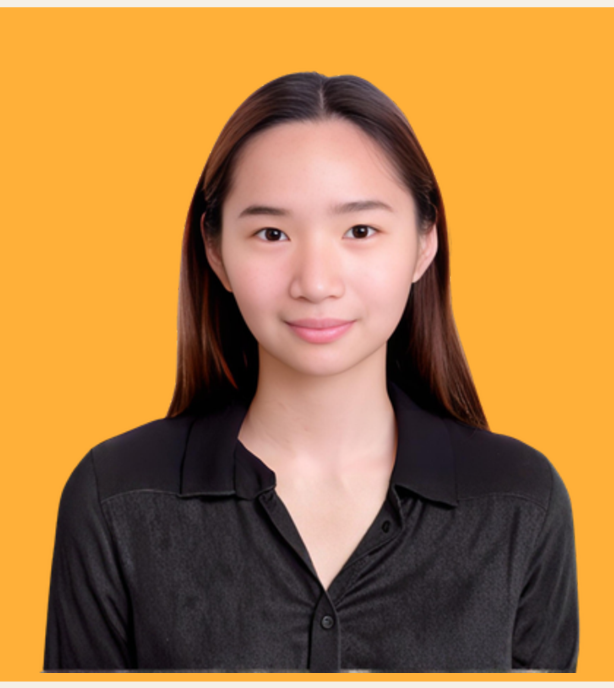
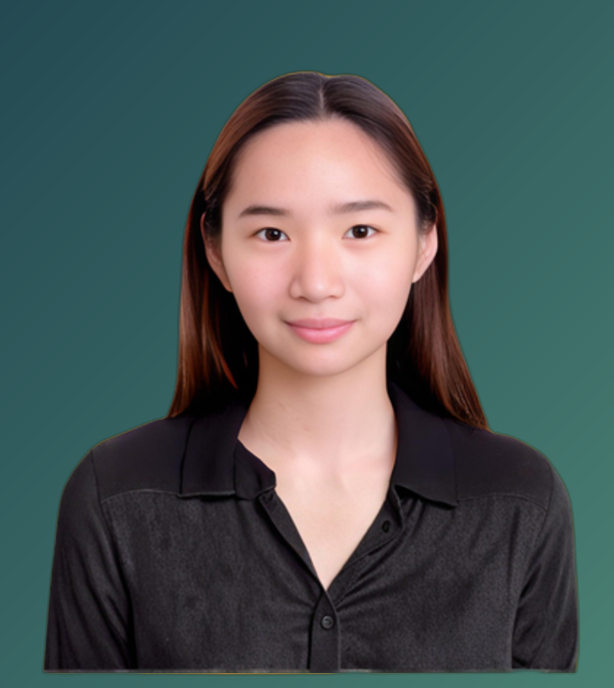
leadership: dark-teal backgrounds for all 5 leaders (cut out via rembg); replace Hannah photo with new headshot

diff --git a/index.html b/index.html
@@ -697,7 +697,7 @@
 
       <!-- Hannah Jara -->
       <div class="leader-card reveal">
-        <div class="leader-avatar"><img src="LEADERSHIP PICTURES/HANNAH JARA.png" alt="Hannah P. Jara"></div>
+        <div class="leader-avatar"><img src="LEADERSHIP PICTURES/HANNAH JARA.png?v=2" alt="Hannah P. Jara"></div>
         <div class="leader-name">Hannah P. Jara</div>
         <div class="leader-creds">MBA, MPH, PTRP</div>
         <div class="leader-role">President & CEO, Sapphire Clinics East, Inc.</div>
@@ -706,7 +706,7 @@
 
       <!-- Ariel Jan Carlo Gonzales -->
       <div class="leader-card reveal delay-1">
-        <div class="leader-avatar"><img src="LEADERSHIP PICTURES/ARIEL JAN CARLO GONZALES.png" alt="Ariel Jan Carlo Gonzales"></div>
+        <div class="leader-avatar"><img src="LEADERSHIP PICTURES/ARIEL JAN CARLO GONZALES.png?v=2" alt="Ariel Jan Carlo Gonzales"></div>
         <div class="leader-name">Ariel Jan Carlo Gonzales</div>
         <div class="leader-creds">MBA</div>
         <div class="leader-role">Treasurer, SCEI</div>
@@ -715,7 +715,7 @@
 
       <!-- Anna Kaye Hao Lim -->
       <div class="leader-card reveal delay-2">
-        <div class="leader-avatar"><img src="LEADERSHIP PICTURES/ANNA KAYE LIM.png" alt="Anna Kaye Hao Lim"></div>
+        <div class="leader-avatar"><img src="LEADERSHIP PICTURES/ANNA KAYE LIM.png?v=2" alt="Anna Kaye Hao Lim"></div>
         <div class="leader-name">Anna Kaye Hao Lim</div>
         <div class="leader-creds">MBA</div>
         <div class="leader-role">Board Member, SCEI</div>
@@ -724,7 +724,7 @@
 
       <!-- Abram Paez Barrameda -->
       <div class="leader-card reveal">
-        <div class="leader-avatar"><img src="LEADERSHIP PICTURES/ABRAM BARRAMEDA.png" alt="Abram Paez Barrameda"></div>
+        <div class="leader-avatar"><img src="LEADERSHIP PICTURES/ABRAM BARRAMEDA.png?v=2" alt="Abram Paez Barrameda"></div>
         <div class="leader-name">Abram Paez Barrameda</div>
         <div class="leader-creds">MBA</div>
         <div class="leader-role">Board Member, SCEI</div>
@@ -733,7 +733,7 @@
 
       <!-- Jireh Annette De Guzman Concepcion -->
       <div class="leader-card reveal delay-1">
-        <div class="leader-avatar"><img src="LEADERSHIP PICTURES/JIREH CONCEPCION.png" alt="Jireh Annette De Guzman Concepcion"></div>
+        <div class="leader-avatar"><img src="LEADERSHIP PICTURES/JIREH CONCEPCION.png?v=2" alt="Jireh Annette De Guzman Concepcion"></div>
         <div class="leader-name">Jireh Annette De Guzman Concepcion</div>
         <div class="leader-creds">BA Economics</div>
         <div class="leader-role">Corporate Secretary, SCEI</div>
